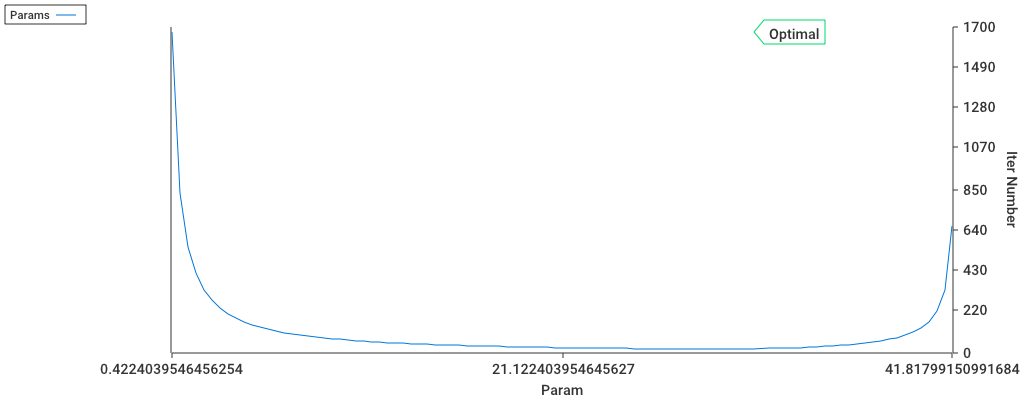
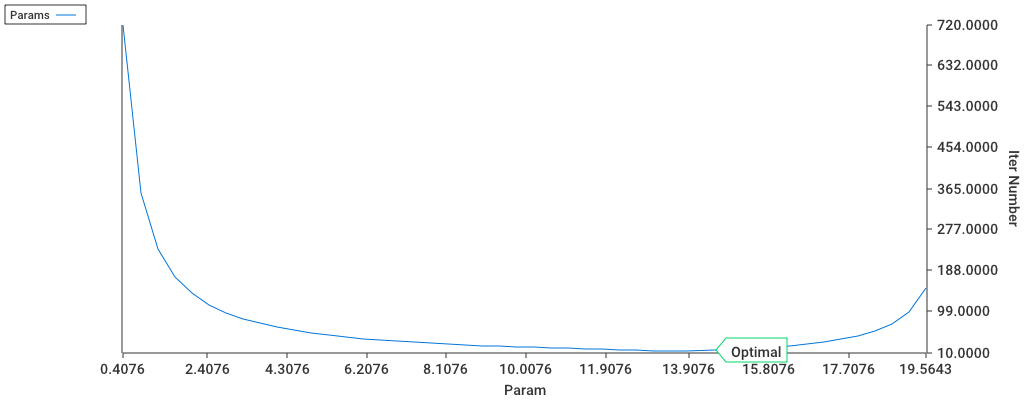
refactor

diff --git a/algebra-num-methods/lab4/test.go b/algebra-num-methods/lab4/test.go
@@ -11,7 +11,6 @@ import (
 	"gonum.org/v1/gonum/mat"
 
 	"algebra-num-methods/lab1"
-	"algebra-num-methods/lab2/lib"
 )
 
 func eucDiffNorm(n int, m1, m2 []float64) float64 {
@@ -23,14 +22,6 @@ func eucDiffNorm(n int, m1, m2 []float64) float64 {
 	return norm
 }
 
-func eucNorm(n int, m2 []float64) float64 {
-	norm := 0.0
-	for i := 0; i < n; i++ {
-		norm += m2[i] * m2[i]
-	}
-	norm = math.Sqrt(norm)
-	return norm
-}
 func GenMatrix(n int) ([][]float64, []float64) {
 	m := make([][]float64, n)
 	b := make([]float64, n)
@@ -39,7 +30,7 @@ func GenMatrix(n int) ([][]float64, []float64) {
 	}
 	for i := 0; i < n; i++ {
 		for j := i + 1; j < n; j++ {
-			m[i][j] = float64(rand.Int() % 100)  / 100000
+			m[i][j] = float64(rand.Int()%100) / 100000
 			m[j][i] = m[i][j]
 			// if i == j {
 			// 	m[i][i] = math.Abs(m[i][i]) * 100.0 * float64(n+1)
@@ -62,33 +53,7 @@ func GenMatrix(n int) ([][]float64, []float64) {
 	return m, b
 }
 
-func IterMethod1(n int, m [][]float64, b []float64, EPS float64) (int, []float64) {
-	err := 10.0
-	prev := make([]float64, n)
-	copy(prev, b)
-	steps := 0
-	// g := SubsMatrix(n, GenUnitMatrix(n), m)
-	for ; ; steps++ {
-		// fmt.Println(prev)
-		current := make([]float64, n)
-		for i := 0; i < n; i++ {
-			current[i] = prev[i] + b[i]
-			for j := 0; j < n; j++ {
-				current[i] += -m[i][j] * prev[j]
-			}
-		}
-		err = eucDiffNorm(n, current, prev)
-		if math.Abs(err)*mt <= EPS {
-			return steps, prev
-		}
-		if math.IsNaN(err) {
-			return -1, prev
-		}
-		prev = current
-	}
-	return steps, prev
-}
-func IterMethod2(n int, m [][]float64, b []float64, EPS float64) (int, []float64) {
+func SingleParameterMethod(n int, m [][]float64, b []float64, EPS float64) (int, []float64) {
 	err := 10.0
 	prev := make([]float64, n)
 	copy(prev, b)
@@ -115,7 +80,8 @@ func IterMethod2(n int, m [][]float64, b []float64, EPS float64) (int, []float64
 	return steps, prev
 }
 
-func IterMethod(n int, m [][]float64, b []float64, EPS float64) (int, []float64) {
+// working iter method
+func SimpleIterationMethod(n int, m [][]float64, b []float64, EPS float64) (int, []float64) {
 	err := 1.0
 	prev := make([]float64, n)
 	copy(prev, b)
@@ -188,39 +154,35 @@ func GenUnitMatrix(n int) [][]float64 {
 	}
 	return m
 }
+
+var stepN = 50
+var eps = 0.0001
 func Test() {
-	n := 50
+	n := 100
 	mGen, b := GenMatrix(n)
-	// n, mGen, b := lab3.ReadMatrix("lab4/test/1")
 	a := mat.NewSymDense(n, lab1.Flat(mGen))
 	// fmt.Println(mGen)
 	var eigsym mat.EigenSym
 	_ = eigsym.Factorize(a, true)
-	eigs := eigsym.Values(nil)
-	tL, tR, tOpt := 0.0, 2/floats.Max(eigs), 2/(floats.Max(eigs)+floats.Min(eigs))
+	tL, tR, tOpt := 0.0, 2/floats.Max(eigsym.Values(nil)), 2/(floats.Max(eigsym.Values(nil))+floats.Min(eigsym.Values(nil)))
+	fmt.Println("tLeft = ", tL, " tRight = ", tR)
+	step := (tR - tL) / float64(stepN)
+	fmt.Println("stepN = ", stepN)
+	fmt.Println("eps = ", eps)
 
-	fmt.Println(tL, tR, tOpt)
-	step := (tR - tL) / 100
 	xs, ys, zs := []float64{}, []float64{}, []float64{}
-	eps := 0.0001
-	res, _ := lib.GaussPartial(mGen, b)
-	// fmt.Println(res)
+	yOpt, errOpt := 0.0, 0.0
 
-	// _, res1 := IterMethod(n, mGen, b, eps)
+	// Ideal solution
+	_, res := SimpleIterationMethod(n, mGen, b, eps)
 
-	g := make([]float64, n)
-	for j := 0; j < n; j++ {
-		g[j] = b[j] * tOpt
-	}
-	// _, res1 := IterMethod(n,  MultConstMatrix(n, mGen, tOpt), g, eps)
-	// fmt.Println(res, res1)
 	for i := tL + step; i < tR-step; i += step {
-	// for i := tOpt; i <= tR; i += step {
 		t := i
+		// explicit use tOpt except close values
 		if math.Abs(tOpt-i) < step {
 			t = tOpt
 		}
-		fmt.Println("t = ", t)
+		// fmt.Println("t = ", t)
 
 		m := SubsMatrix(n, GenUnitMatrix(n), MultConstMatrix(n, mGen, t))
 		T := mat.NewSymDense(n, lab1.Flat(m))
@@ -234,25 +196,32 @@ func Test() {
 			g[j] = b[j] * t
 		}
 
-		fmt.Println("\t", mt)
+		// fmt.Println("\t norm = ", mt)
 		if mt >= 1 {
 			fmt.Println("\tnorm > 1 when t = ", t)
 			break
 		}
 		mt = math.Abs(mt / (1 - mt))
-		steps, res1 := IterMethod2(n, m, g, eps)
+		steps, res1 := SingleParameterMethod(n, m, g, eps)
 		if steps == -1 {
-			fmt.Println("\tnope")
+			fmt.Println("\t NaN or Inf")
 			continue
 		}
 		xs = append(xs, float64(steps))
 		ys = append(ys, t)
 		zs = append(zs, eucDiffNorm(n, res, res1))
+		if t == tOpt {
+			yOpt = float64(steps)
+			errOpt = eucDiffNorm(n, res, res1)
+		}
 	}
-	fmt.Println(len(xs), floats.Max(xs), floats.Min(xs))
-	fmt.Println(len(ys), floats.Max(ys), floats.Min(ys))
-	fmt.Println(ys[floats.MinIdx(zs)], floats.Max(ys))
+	fmt.Println("real optimal  = ", ys[floats.MinIdx(zs)])
+	fmt.Println("wanted optimal  = ", tOpt)
 
+	drawPlot(xs,ys,zs, yOpt, errOpt, tOpt)
+}
+
+func drawPlot(xs, ys, zs []float64,yOpt, errOpt, tOpt float64) {
 	graph := chart.Chart{
 		Background: chart.Style{
 			Padding: chart.Box{
@@ -263,13 +232,13 @@ func Test() {
 		XAxis: chart.XAxis{
 			Name: "Param",
 			ValueFormatter: func(v interface{}) string {
-				return fmt.Sprintf("%v", v)
+				return fmt.Sprintf("%.4f", v)
 			},
 		},
 		YAxis: chart.YAxis{
 			Name: "Iter Number",
 			ValueFormatter: func(v interface{}) string {
-				return fmt.Sprintf("%v", v)
+				return fmt.Sprintf("%.4f", v)
 			},
 		},
 		Series: []chart.Series{
@@ -280,7 +249,7 @@ func Test() {
 			},
 			chart.AnnotationSeries{
 				Annotations: []chart.Value2{
-					{XValue: tOpt, YValue: xs[0], Label: "Optimal"}},
+					{XValue: tOpt, YValue: yOpt, Label: "Optimal"}},
 			}},
 	}
 	graph.Elements = []chart.Renderable{
@@ -301,13 +270,13 @@ func Test() {
 		XAxis: chart.XAxis{
 			Name: "Param",
 			ValueFormatter: func(v interface{}) string {
-				return fmt.Sprintf("%v", v)
+				return fmt.Sprintf("%.5e", v)
 			},
 		},
 		YAxis: chart.YAxis{
 			Name: "Error",
 			ValueFormatter: func(v interface{}) string {
-				return fmt.Sprintf("%v", v)
+				return fmt.Sprintf("%.5e", v)
 			},
 		},
 		Series: []chart.Series{
@@ -318,7 +287,7 @@ func Test() {
 			},
 			chart.AnnotationSeries{
 				Annotations: []chart.Value2{
-					{XValue: tOpt, YValue: zs[0], Label: "Optimal"}},
+					{XValue: tOpt, YValue: errOpt, Label: "Optimal"}},
 			}},
 	}
 	graphErr.Elements = []chart.Renderable{
@@ -328,5 +297,4 @@ func Test() {
 	fErr, _ := os.Create("errors.png")
 	defer fErr.Close()
 	graphErr.Render(chart.PNG, fErr)
-
 }
